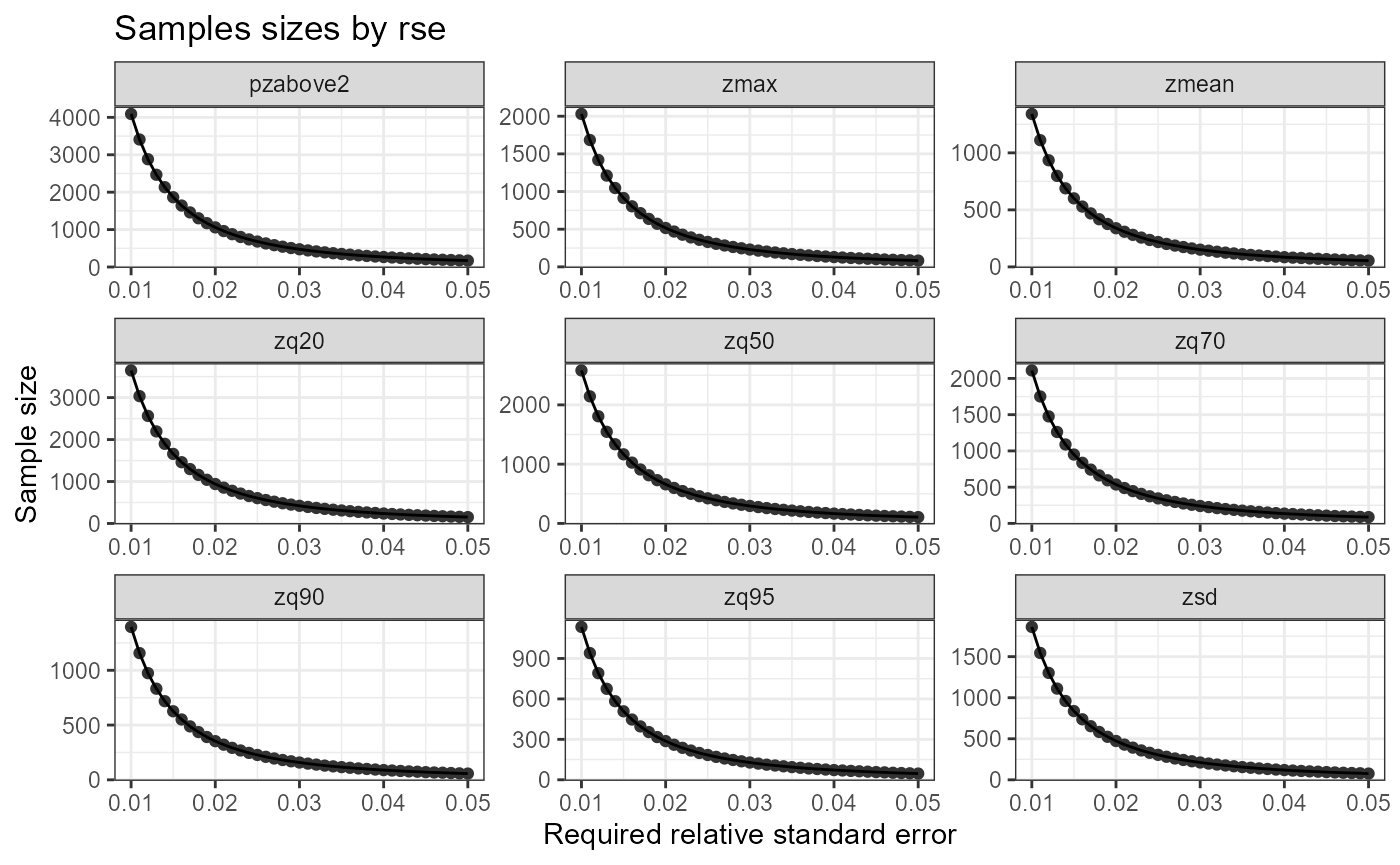
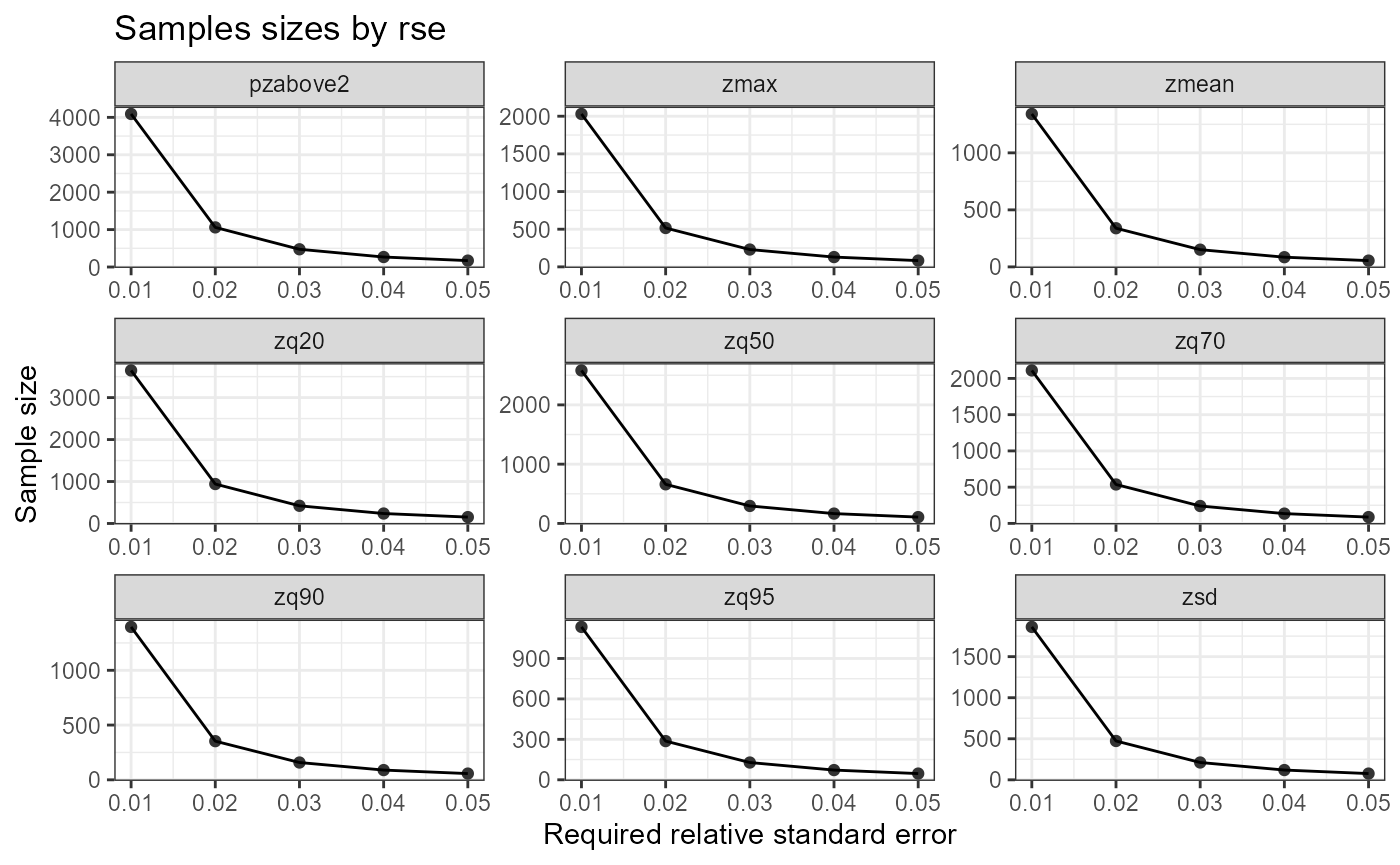
remove autoplot

diff --git a/docs/articles/calculating.html b/docs/articles/calculating.html
@@ -96,11 +96,12 @@
 <ul>
 <li><p><code><a href="../reference/calculate_distance.html">calculate_distance()</a></code> - per pixel distance to closest access vector</p></li>
 <li><p><code><a href="../reference/calculate_pcomp.html">calculate_pcomp()</a></code>- principal components on input <code>mraster</code></p></li>
+<li><p><code><a href="../reference/calculate_sampsize.html">calculate_sampsize()</a></code> - Determine appropriate sample sizes based on relative standard error thresholds</p></li>
 <li><p><code><a href="../reference/calculate_allocation.html">calculate_allocation()</a></code> - sample allocation algorithm - proportional / optimal / equal sampling</p></li>
 <li><p><code>calculate_ahels()</code> - Adapted hypercube evaluation of a legacy sample (ahels) algorithm</p></li>
 <li><p><code><a href="../reference/calculate_coobs.html">calculate_coobs()</a></code> - Count of observations algorithm</p></li>
 <li><p><code><a href="../reference/calculate_lhsPop.html">calculate_lhsPop()</a></code> - Population covariate statistics for latin hypercube sampling</p></li>
-<li><p><code><a href="../reference/calculate_lhsOpt.html">calculate_lhsOpt()</a></code> -Optimal latin hypercube sampling paramters including sample number</p></li>
+<li><p><code><a href="../reference/calculate_lhsOpt.html">calculate_lhsOpt()</a></code> - Optimal latin hypercube sampling paramters including sample number</p></li>
 </ul>
 <p><code>calculate_*</code> functions serve as helper functions. In this section we outline how these functions can be used.</p>
 <div class="section level2 unnumbered">
@@ -177,6 +178,54 @@
 <span class="co">#&gt; max values  :  13.828171,   4.197435,   4.022076,   1.821104,   2.243303</span></code></pre>
 </div>
 <div class="section level2 unnumbered">
+<h2 class="unnumbered" id="calculate_sampsize">
+<code>calculate_sampsize</code><a class="anchor" aria-label="anchor" href="#calculate_sampsize"></a>
+</h2>
+<p>The <code><a href="../reference/calculate_sampsize.html">calculate_sampsize()</a></code> function allows users to determine what an appropriate sample size would be using the relative standard error of input metric. If an <code>mraster</code> with multiple layers is provided, sample sizes will be determined for all layers. If <code>plot = TRUE</code> and <code>rse</code> is defined, a sequence of rse values will be visualized with indicators and a value for the matching sample size.</p>
+<div class="sourceCode" id="cb5"><pre class="downlit sourceCode r">
+<code class="sourceCode R"><span class="co">#--- determine sample size based on relative standard error (rse) of 1% ---#</span>
+<span class="fu"><a href="../reference/calculate_sampsize.html">calculate_sampsize</a></span><span class="op">(</span>mraster <span class="op">=</span> <span class="va">mraster</span>,
+                   rse <span class="op">=</span> <span class="fl">0.01</span><span class="op">)</span>
+<span class="co">#&gt;   nSamp  rse      var</span>
+<span class="co">#&gt; 1  2030 0.01     zmax</span>
+<span class="co">#&gt; 2  1341 0.01    zmean</span>
+<span class="co">#&gt; 3  1862 0.01      zsd</span>
+<span class="co">#&gt; 4  4091 0.01 pzabove2</span>
+<span class="co">#&gt; 5  3647 0.01     zq20</span>
+<span class="co">#&gt; 6  2581 0.01     zq50</span>
+<span class="co">#&gt; 7  2110 0.01     zq70</span>
+<span class="co">#&gt; 8  1396 0.01     zq90</span>
+<span class="co">#&gt; 9  1134 0.01     zq95</span></code></pre></div>
+<div class="sourceCode" id="cb6"><pre class="downlit sourceCode r">
+<code class="sourceCode R"><span class="co">#--- change default threshold sequence values ---# </span>
+<span class="co">#--- if increment and rse are not divisible the closes value will be taken ---#</span>
+<span class="va">p</span> <span class="op">&lt;-</span> <span class="fu"><a href="../reference/calculate_sampsize.html">calculate_sampsize</a></span><span class="op">(</span>mraster <span class="op">=</span> <span class="va">mraster</span>,
+                   rse <span class="op">=</span> <span class="fl">0.025</span>,
+                   start <span class="op">=</span> <span class="fl">0.01</span>,
+                   end <span class="op">=</span> <span class="fl">0.08</span>,
+                   increment <span class="op">=</span> <span class="fl">0.01</span><span class="op">)</span>
+<span class="co">#&gt; 'rse' not perfectly divisible by 'incremenent. </span>
+<span class="co">#&gt; Selecting closest sample size (rse = 0.03) based on values.</span>
+
+<span class="va">p</span>
+<span class="co">#&gt; Registered S3 method overwritten by 'cli':</span>
+<span class="co">#&gt;   method     from         </span>
+<span class="co">#&gt;   print.boxx spatstat.geom</span>
+<span class="co">#&gt; <span style="color: #949494;"># A tibble: 9 x 3</span></span>
+<span class="co">#&gt; <span style="color: #949494;"># Groups:   var [9]</span></span>
+<span class="co">#&gt;   nSamp   rse var     </span>
+<span class="co">#&gt;   <span style="color: #949494; font-style: italic;">&lt;dbl&gt;</span> <span style="color: #949494; font-style: italic;">&lt;dbl&gt;</span> <span style="color: #949494; font-style: italic;">&lt;chr&gt;</span>   </span>
+<span class="co">#&gt; <span style="color: #BCBCBC;">1</span>   230  0.03 zmax    </span>
+<span class="co">#&gt; <span style="color: #BCBCBC;">2</span>   151  0.03 zmean   </span>
+<span class="co">#&gt; <span style="color: #BCBCBC;">3</span>   211  0.03 zsd     </span>
+<span class="co">#&gt; <span style="color: #BCBCBC;">4</span>   474  0.03 pzabove2</span>
+<span class="co">#&gt; <span style="color: #BCBCBC;">5</span>   421  0.03 zq20    </span>
+<span class="co">#&gt; <span style="color: #BCBCBC;">6</span>   295  0.03 zq50    </span>
+<span class="co">#&gt; <span style="color: #BCBCBC;">7</span>   240  0.03 zq70    </span>
+<span class="co">#&gt; <span style="color: #BCBCBC;">8</span>   158  0.03 zq90    </span>
+<span class="co">#&gt; <span style="color: #BCBCBC;">9</span>   128  0.03 zq95</span></code></pre></div>
+</div>
+<div class="section level2 unnumbered">
 <h2 class="unnumbered" id="calculate_allocation">
 <code>calculate_allocation</code><a class="anchor" aria-label="anchor" href="#calculate_allocation"></a>
 </h2>
@@ -189,16 +238,16 @@
 <div class="section level3 unnumbered">
 <h3 class="unnumbered" id="proportional">Proportional allocation<a class="anchor" aria-label="anchor" href="#proportional"></a>
 </h3>
-<div class="sourceCode" id="cb5"><pre class="downlit sourceCode r">
+<div class="sourceCode" id="cb7"><pre class="downlit sourceCode r">
 <code class="sourceCode R"><span class="co">#--- perform grid sampling ---#</span>
 <span class="fu"><a href="../reference/calculate_allocation.html">calculate_allocation</a></span><span class="op">(</span>sraster <span class="op">=</span> <span class="va">sraster</span>, 
                      nSamp <span class="op">=</span> <span class="fl">200</span><span class="op">)</span>
 <span class="co">#&gt;   strata total</span>
-<span class="co">#&gt; 1      1    57</span>
-<span class="co">#&gt; 2      2    47</span>
-<span class="co">#&gt; 3      3    41</span>
-<span class="co">#&gt; 4      4    54</span></code></pre></div>
-<div class="sourceCode" id="cb6"><pre class="downlit sourceCode r">
+<span class="co">#&gt; 1      1    48</span>
+<span class="co">#&gt; 2      2    40</span>
+<span class="co">#&gt; 3      3    55</span>
+<span class="co">#&gt; 4      4    57</span></code></pre></div>
+<div class="sourceCode" id="cb8"><pre class="downlit sourceCode r">
 <code class="sourceCode R"><span class="co">#--- calculate existing samples to include ---#</span>
 <span class="va">e.sr</span> <span class="op">&lt;-</span> <span class="fu"><a href="../reference/extract.html">extract_strata</a></span><span class="op">(</span>sraster <span class="op">=</span> <span class="va">sraster</span>, 
                        existing <span class="op">=</span> <span class="va">existing</span><span class="op">)</span>
@@ -207,17 +256,17 @@
                      nSamp <span class="op">=</span> <span class="fl">200</span>, 
                      existing <span class="op">=</span> <span class="va">e.sr</span><span class="op">)</span>
 <span class="co">#&gt;   strata total need</span>
-<span class="co">#&gt; 1      1    -8   57</span>
-<span class="co">#&gt; 2      2     7   47</span>
-<span class="co">#&gt; 3      3     2   41</span>
-<span class="co">#&gt; 4      4    -2   54</span></code></pre></div>
+<span class="co">#&gt; 1      1    -2   48</span>
+<span class="co">#&gt; 2      2     5   40</span>
+<span class="co">#&gt; 3      3     2   55</span>
+<span class="co">#&gt; 4      4    -5   57</span></code></pre></div>
 <p>Notice that some of the results in <code>total</code> above are negative. This indicates that the <code>existing</code> samples over represent those strata and that some samples should be removed to avoid over representation. The number that should be added/removed is details in <code>$total</code>.</p>
 </div>
 <div class="section level3 unnumbered">
 <h3 class="unnumbered" id="optimal">Optimal Allocation<a class="anchor" aria-label="anchor" href="#optimal"></a>
 </h3>
 <p>Optimal allocation utilizes within strata metric variation to allocate samples. This means that in addition to providing and <code>sraster</code>, that a specific metric (<code>mraster</code>) must be provided to calculate variation to optimally allocate samples.</p>
-<div class="sourceCode" id="cb7"><pre class="downlit sourceCode r">
+<div class="sourceCode" id="cb9"><pre class="downlit sourceCode r">
 <code class="sourceCode R"><span class="fu"><a href="../reference/calculate_allocation.html">calculate_allocation</a></span><span class="op">(</span>sraster <span class="op">=</span> <span class="va">sraster</span>, <span class="co"># stratified raster</span>
                      nSamp <span class="op">=</span> <span class="fl">200</span>, <span class="co"># desired sample number</span>
                      existing <span class="op">=</span> <span class="va">e.sr</span>, <span class="co">#existing samples</span>
@@ -225,22 +274,19 @@
                      mraster <span class="op">=</span> <span class="va">mraster</span><span class="op">$</span><span class="va">zmax</span>, <span class="co"># metric raster</span>
                      force <span class="op">=</span> <span class="cn">TRUE</span><span class="op">)</span> <span class="co"># force nSamp number</span>
 <span class="co">#&gt;   strata total need</span>
-<span class="co">#&gt; 1      1   -14   51</span>
-<span class="co">#&gt; 2      2     8   48</span>
-<span class="co">#&gt; 3      3    12   51</span>
-<span class="co">#&gt; 4      4    -6   50</span></code></pre></div>
+<span class="co">#&gt; 1      1     0   50</span>
+<span class="co">#&gt; 2      2    14   49</span>
+<span class="co">#&gt; 3      3    -2   51</span>
+<span class="co">#&gt; 4      4   -12   50</span></code></pre></div>
 </div>
 <div class="section level3 unnumbered">
 <h3 class="unnumbered" id="equal">Equal allocation<a class="anchor" aria-label="anchor" href="#equal"></a>
 </h3>
 <p>There may be an instance where a user wants to have the same number of samples allocated to each strata. In this case using <code>allocation = equal</code> is ideal. In this instance, <code>nSamp</code> relates to the total number of samples per strata rather than the total number of samples overall.</p>
-<div class="sourceCode" id="cb8"><pre class="downlit sourceCode r">
+<div class="sourceCode" id="cb10"><pre class="downlit sourceCode r">
 <code class="sourceCode R"><span class="fu"><a href="../reference/calculate_allocation.html">calculate_allocation</a></span><span class="op">(</span>sraster <span class="op">=</span> <span class="va">sraster</span>, <span class="co"># stratified raster</span>
                      nSamp <span class="op">=</span> <span class="fl">20</span>, <span class="co"># desired sample number</span>
                      allocation <span class="op">=</span> <span class="st">"equal"</span><span class="op">)</span> <span class="co"># optimal allocation</span>
-<span class="co">#&gt; Registered S3 method overwritten by 'cli':</span>
-<span class="co">#&gt;   method     from         </span>
-<span class="co">#&gt;   print.boxx spatstat.geom</span>
 <span class="co">#&gt; <span style="color: #949494;"># A tibble: 4 x 2</span></span>
 <span class="co">#&gt;   strata total</span>
 <span class="co">#&gt;    <span style="color: #949494; font-style: italic;">&lt;dbl&gt;</span> <span style="color: #949494; font-style: italic;">&lt;dbl&gt;</span></span>
@@ -263,7 +309,7 @@
 </h3>
 <p>The <code><a href="../reference/calculate_coobs.html">calculate_coobs()</a></code> function perform the COunt of OBServations (coobs) algorithm using <code>existing</code> sample data and <code>mraster</code> covariates. This algorithm aids the user in understanding how an <code>existing</code> sample data set is distributed among the landscape with relation to <code>mraster</code> covariates. The output coobs raster could be used to constrain clhs sampling using the <code><a href="../reference/sample_clhs.html">sample_clhs()</a></code> to areas that are under reprented.</p>
 <p>The coobs raster determines how many observations are similar in terms of the covariate space at every pixel.This fucntion takes advantage of parallel processing routines.</p>
-<div class="sourceCode" id="cb9"><pre class="downlit sourceCode r">
+<div class="sourceCode" id="cb11"><pre class="downlit sourceCode r">
 <code class="sourceCode R"><span class="fu"><a href="../reference/calculate_coobs.html">calculate_coobs</a></span><span class="op">(</span>mraster <span class="op">=</span> <span class="va">mraster</span>, <span class="co"># input</span>
                 existing <span class="op">=</span> <span class="va">existing</span>, <span class="co"># existing samples</span>
                 cores <span class="op">=</span> <span class="fl">4</span>, <span class="co"># parallel cores to use</span>
@@ -281,7 +327,7 @@
 <code>calculate_lhsPop</code><a class="anchor" aria-label="anchor" href="#lhspop"></a>
 </h3>
 <p>The <code><a href="../reference/calculate_lhsPop.html">calculate_lhsPop()</a></code> function calculates population level statistics about the <code>mraster</code> covariates being used including calculating principal components, quantile &amp; covariate distributions, and Kullback–Leibler divergence testing. The outputs from this function are mandatory for use of the <code><a href="../reference/calculate_lhsOpt.html">calculate_lhsOpt()</a></code> function described in the next section.</p>
-<div class="sourceCode" id="cb10"><pre class="downlit sourceCode r">
+<div class="sourceCode" id="cb12"><pre class="downlit sourceCode r">
 <code class="sourceCode R"><span class="co">#--- by default all statistical data are calculated ---#</span>
 <span class="fu"><a href="../reference/calculate_lhsPop.html">calculate_lhsPop</a></span><span class="op">(</span>mraster <span class="op">=</span> <span class="va">mraster</span><span class="op">)</span> <span class="co"># input </span></code></pre></div>
 <p>The output details the following:</p>
@@ -291,7 +337,7 @@
 <li><p><code>$matQ</code> - Quantile matrix</p></li>
 <li><p><code>$matCov</code> - Covariate matrix</p></li>
 </ul>
-<div class="sourceCode" id="cb11"><pre class="downlit sourceCode r">
+<div class="sourceCode" id="cb13"><pre class="downlit sourceCode r">
 <code class="sourceCode R"><span class="co">#--- statistical analyses can be chosen by setting their parameter to `FALSE` ---#</span>
 <span class="fu"><a href="../reference/calculate_lhsPop.html">calculate_lhsPop</a></span><span class="op">(</span>mraster <span class="op">=</span> <span class="va">mraster</span>, <span class="co"># input </span>
                  nQuant <span class="op">=</span> <span class="fl">10</span>, <span class="co"># desired number of quantiles</span>
@@ -303,12 +349,12 @@
 </h3>
 <p>The <code><a href="../reference/calculate_lhsOpt.html">calculate_lhsOpt()</a></code> function performs a bootsrapped latin hypercube sampling approach where a population level analysis of <code>mraster</code> data is performed to determine the optimal Latin hypercube sample size.</p>
 <p>Using statistical data calculated using the <code><a href="../reference/calculate_lhsPop.html">calculate_lhsPop()</a></code> and varying sample sizes defined by <code>minSamp</code>, <code>maxSamp</code>, <code>step</code> and <code>rep</code>. Sampling protocols are conducted and statistical effectiveness of those sampling outcomes are evaluated to determine where sample size is minimized and statistical representation is maximized.</p>
-<div class="sourceCode" id="cb12"><pre class="downlit sourceCode r">
+<div class="sourceCode" id="cb14"><pre class="downlit sourceCode r">
 <code class="sourceCode R"><span class="co">#--- calculate lhsPop details ---#</span>
 <span class="va">poplhs</span> <span class="op">&lt;-</span> <span class="fu"><a href="../reference/calculate_lhsPop.html">calculate_lhsPop</a></span><span class="op">(</span>mraster <span class="op">=</span> <span class="va">mr</span><span class="op">)</span>
 
 <span class="fu"><a href="../reference/calculate_lhsOpt.html">calculate_lhsOpt</a></span><span class="op">(</span>popLHS <span class="op">=</span> <span class="va">poplhs</span><span class="op">)</span></code></pre></div>
-<div class="sourceCode" id="cb13"><pre class="downlit sourceCode r">
+<div class="sourceCode" id="cb15"><pre class="downlit sourceCode r">
 <code class="sourceCode R"><span class="fu"><a href="../reference/calculate_lhsOpt.html">calculate_lhsOpt</a></span><span class="op">(</span>popLHS <span class="op">=</span> <span class="va">poplhs</span>, 
                  PCA <span class="op">=</span> <span class="cn">FALSE</span>, 
                  iter <span class="op">=</span> <span class="fl">200</span><span class="op">)</span></code></pre></div>
